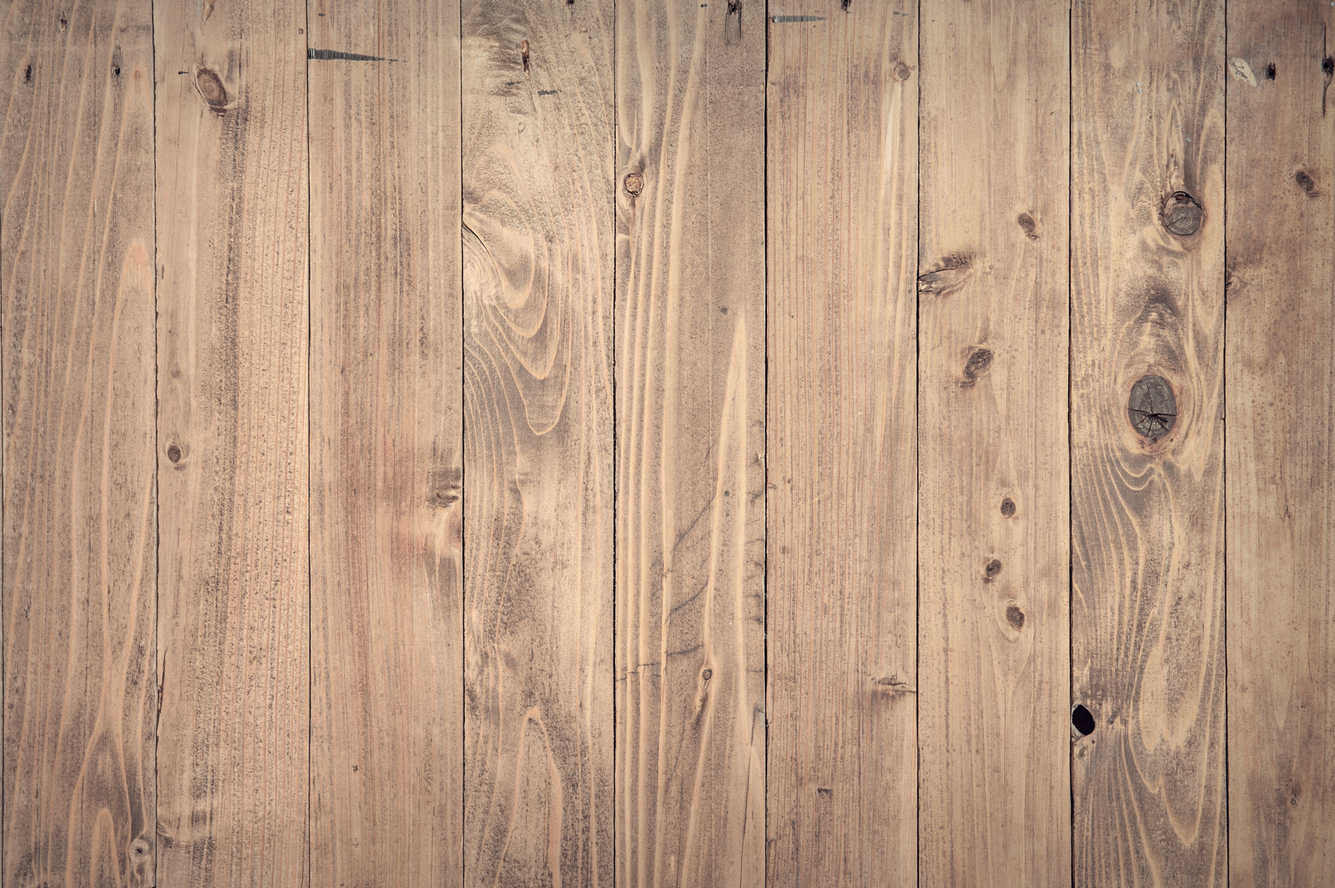
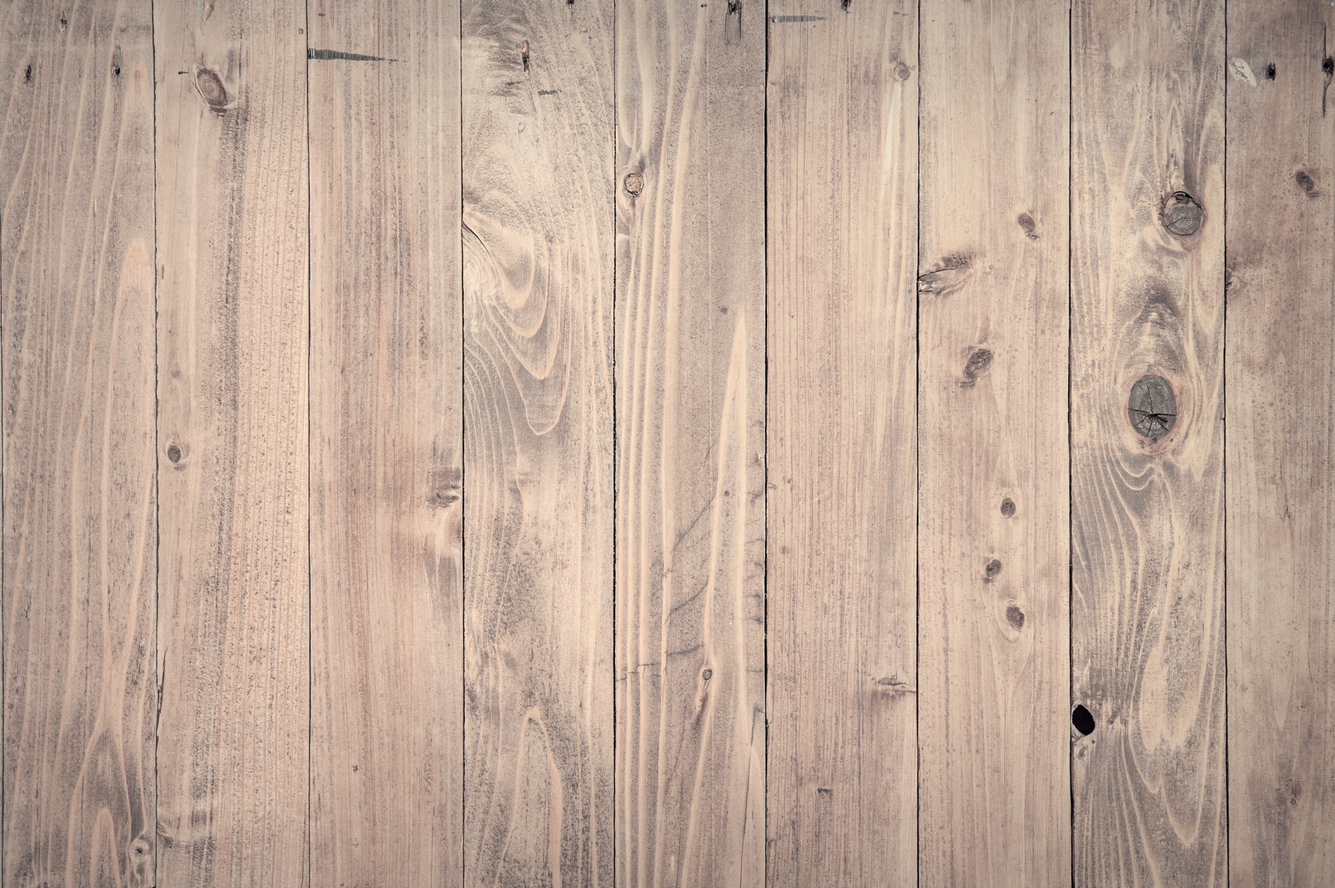
Landing page changes for small screens

Changed region(s): [[0.0312, 0.0311, 1.0, 1.0], [0.0938, 0.0621, 0.125, 0.0932]]

diff --git a/styles/Home.module.css b/styles/Home.module.css
@@ -2,7 +2,7 @@
 .landing {
   max-height: 100vh;
   padding-bottom: 65px;
-  background-image: url("https://res.cloudinary.com/dqgiewxxc/image/upload/v1624729403/gallery/site_images/landing/landing__bg_ieuuda.jpg");
+  background-image: url("https://res.cloudinary.com/dqgiewxxc/image/upload/v1624732029/gallery/site_images/landing/landing__bg_aaqix8.jpg");
   background-size: cover;
 }
 
@@ -42,7 +42,8 @@
 .landing__text {
   text-align: center;
   background: hsla(0, 0%, 100%, 0.6);
-  padding: 25px;
+  padding: 20px;
+  padding-top: 0;
 }
 
 .landing__text h1 {
@@ -55,7 +56,6 @@
   text-transform: uppercase;
   font-size: 1.75rem;
   font-weight: 600;
-  padding: 20px 0;
 }
 
 .landing__text__days {
@@ -87,7 +87,7 @@
 .landing__navigation__icon {
   position: absolute;
   left: 50%;
-  bottom: 1%;
+  bottom: 0;
   font-size: 2rem;
   color: var(--primary-color);
   animation-name: navigation-icon-animation;
@@ -306,11 +306,11 @@
 @media only screen and (max-width: 900px) {
   /* Landing page */
   .landing {
-    max-height: 90vh;
+    max-height: 88vh;
   }
 
   .landing__container {
-    height: 90vh;
+    height: 88vh;
     margin-top: 0;
     padding-top: 0;
     padding-bottom: 55px;
@@ -353,7 +353,7 @@
   }
 
   .landing__navigation__icon {
-    bottom: 70px;
+    bottom: 20px;
   }
 
   /* Our story */

diff --git a/pages/messages.js b/pages/messages.js
@@ -6,7 +6,7 @@ import axios from "axios";
 import MessageHeadLayout from "../components/head/MessageHeadLayout";
 import MessageList from "../components/messages/MessageList";
 
-const messages = (props) => {
+const messages = () => {
   return (
     <MessageHeadLayout>
       <div className={styles.messages__container}>
@@ -18,24 +18,6 @@ const messages = (props) => {
       </div>
     </MessageHeadLayout>
   );
-};
-
-export const getServerSideProps = async () => {
-  const res = await axios.get(
-    `${process.env.NEXT_PUBLIC_API_URL}/messages/all`
-  );
-
-  if (!res.data) {
-    return {
-      notFound: true,
-    };
-  }
-
-  return {
-    props: {
-      messages: res.data || null,
-    },
-  };
 };
 
 export default messages;

diff --git a/styles/globals.css b/styles/globals.css
@@ -253,7 +253,7 @@ body {
 .home__style {
   position: absolute;
   right: 0;
-  padding-top: 20px;
+  padding-top: 10px;
   padding-right: 20px;
   display: flex;
   justify-content: center;
@@ -308,9 +308,5 @@ body {
   .message__form__textarea,
   .message__button {
     width: var(--input-width-mobile);
-  }
-
-  .home__style {
-    padding-top: 30px;
   }
 }
